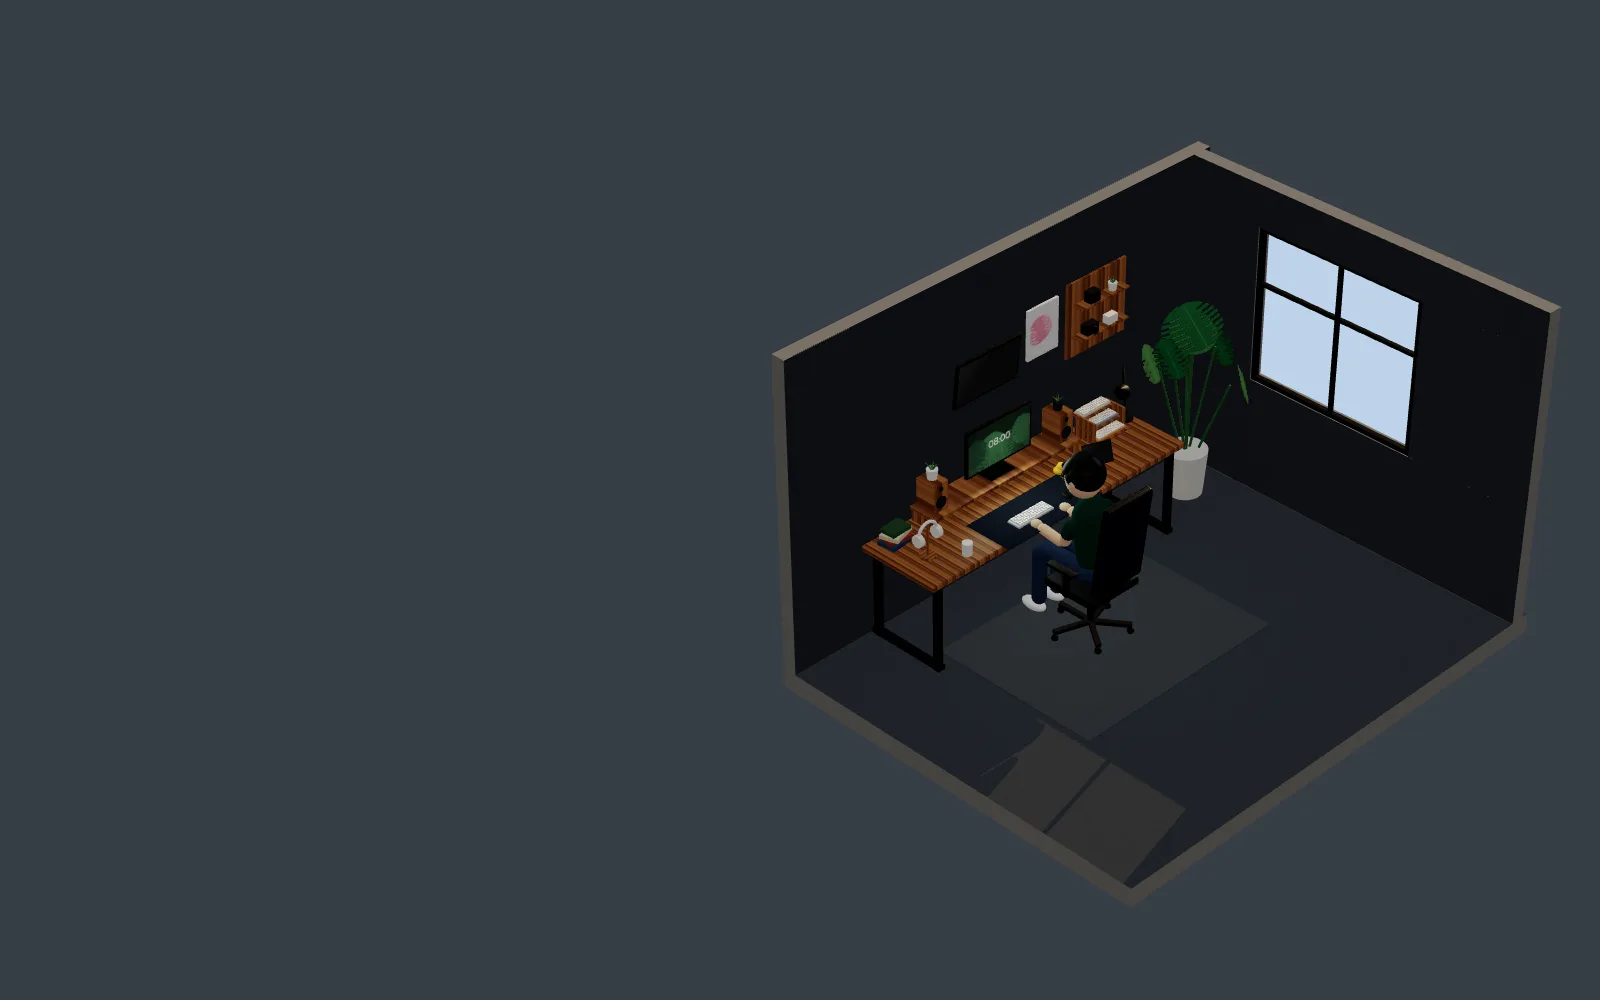
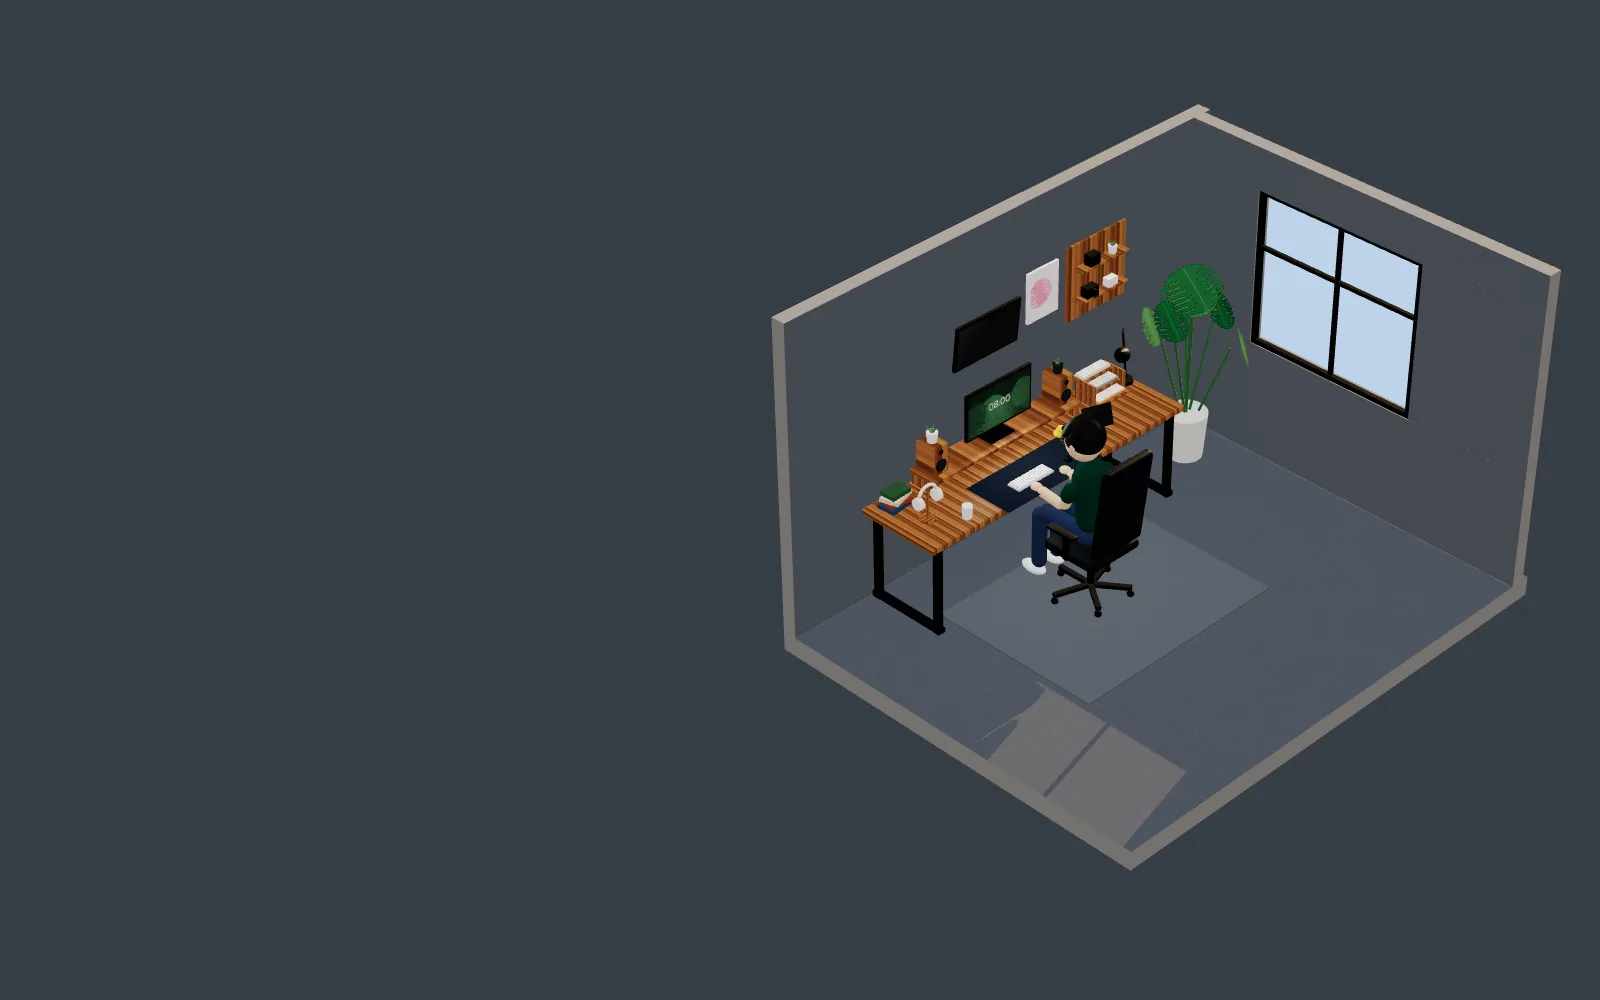
Diorama: a brighter day
Daytime sun, hemisphere and fill rise together (about 2x at 08:00-13:00,
1.9x at 16:00), so walls and floor read as surfaces outside the sun patch
while the patch keeps its ratio to the shade. Graphite wall, carpet and rug
bases lifted. Dusk and night unchanged. The 08:00 still is re-rendered.

Changed region(s): [[0.4688, 0.093, 1.0, 0.899]]

diff --git a/src/components/designs/diorama/day.ts b/src/components/designs/diorama/day.ts
@@ -83,11 +83,13 @@ function mixHex(a: string, b: string, t: number): string {
 
 /* ------------------------------------------------------------ light */
 
+// Daytime is lit like a bright room (spec: surfaces read outside the sun patch). Sun, sky
+// (hemi) and fill rise together, so the patch keeps its ratio to the shade and stays the drama.
 const SUN: [number, Light][] = [
-  [8, { sun: 2.2, sunColor: '#ffd7a6', sunDir: [1, 0.3, -0.25], sky: '#bdd3ea', lamp: 0, hemi: 1.2, fill: 0.45 }],
-  [10.5, { sun: 2.8, sunColor: '#fff0da', sunDir: [1, 0.62, 0.05], sky: '#cde2f4', lamp: 0, hemi: 1.35, fill: 0.5 }],
-  [13, { sun: 3.2, sunColor: '#ffffff', sunDir: [0.55, 1, 0.3], sky: '#dbe9f6', lamp: 0, hemi: 1.4, fill: 0.5 }],
-  [16, { sun: 3.0, sunColor: '#ffad62', sunDir: [1, 0.3, 0.62], sky: '#f2c99c', lamp: 0.6, hemi: 1.0, fill: 0.4 }],
+  [8, { sun: 4.4, sunColor: '#ffd7a6', sunDir: [1, 0.3, -0.25], sky: '#bdd3ea', lamp: 0, hemi: 2.6, fill: 0.95 }],
+  [10.5, { sun: 6.0, sunColor: '#fff0da', sunDir: [1, 0.62, 0.05], sky: '#cde2f4', lamp: 0, hemi: 3.1, fill: 1.1 }],
+  [13, { sun: 6.6, sunColor: '#ffffff', sunDir: [0.55, 1, 0.3], sky: '#dbe9f6', lamp: 0, hemi: 3.1, fill: 1.1 }],
+  [16, { sun: 5.6, sunColor: '#ffad62', sunDir: [1, 0.3, 0.62], sky: '#f2c99c', lamp: 0.6, hemi: 1.9, fill: 0.75 }],
   [19, { sun: 0.35, sunColor: '#ff6f45', sunDir: [1, 0.06, 0.62], sky: '#433e72', lamp: 5.5, hemi: 0.35, fill: 0.15 }],
   [22, { sun: 0, sunColor: '#ff6f45', sunDir: [1, 0.06, 0.62], sky: '#0b1328', lamp: 7, hemi: 0.18, fill: 0.06 }],
 ];

diff --git a/src/components/designs/diorama/scene/Room.tsx b/src/components/designs/diorama/scene/Room.tsx
@@ -129,11 +129,11 @@ export default function Room({ sample, locale, lite, still = false }: { sample: 
     wood.repeat.set(2.4, 1);
     const woodSmall = woodTexture();
     woodSmall.repeat.set(0.8, 0.5);
-    const carpet = noiseTexture('#4a4d52', 26);
+    const carpet = noiseTexture('#5a5d62', 26);
     carpet.repeat.set(6, 5);
-    const rug = noiseTexture('#55575a', 30);
+    const rug = noiseTexture('#64666a', 30);
     rug.repeat.set(4, 3);
-    const wall = noiseTexture('#3d3f44', 10);
+    const wall = noiseTexture('#63666b', 10);
     wall.repeat.set(3, 2);
     return {
       wood: new THREE.MeshStandardMaterial({ map: wood, roughness: 0.48 }),
